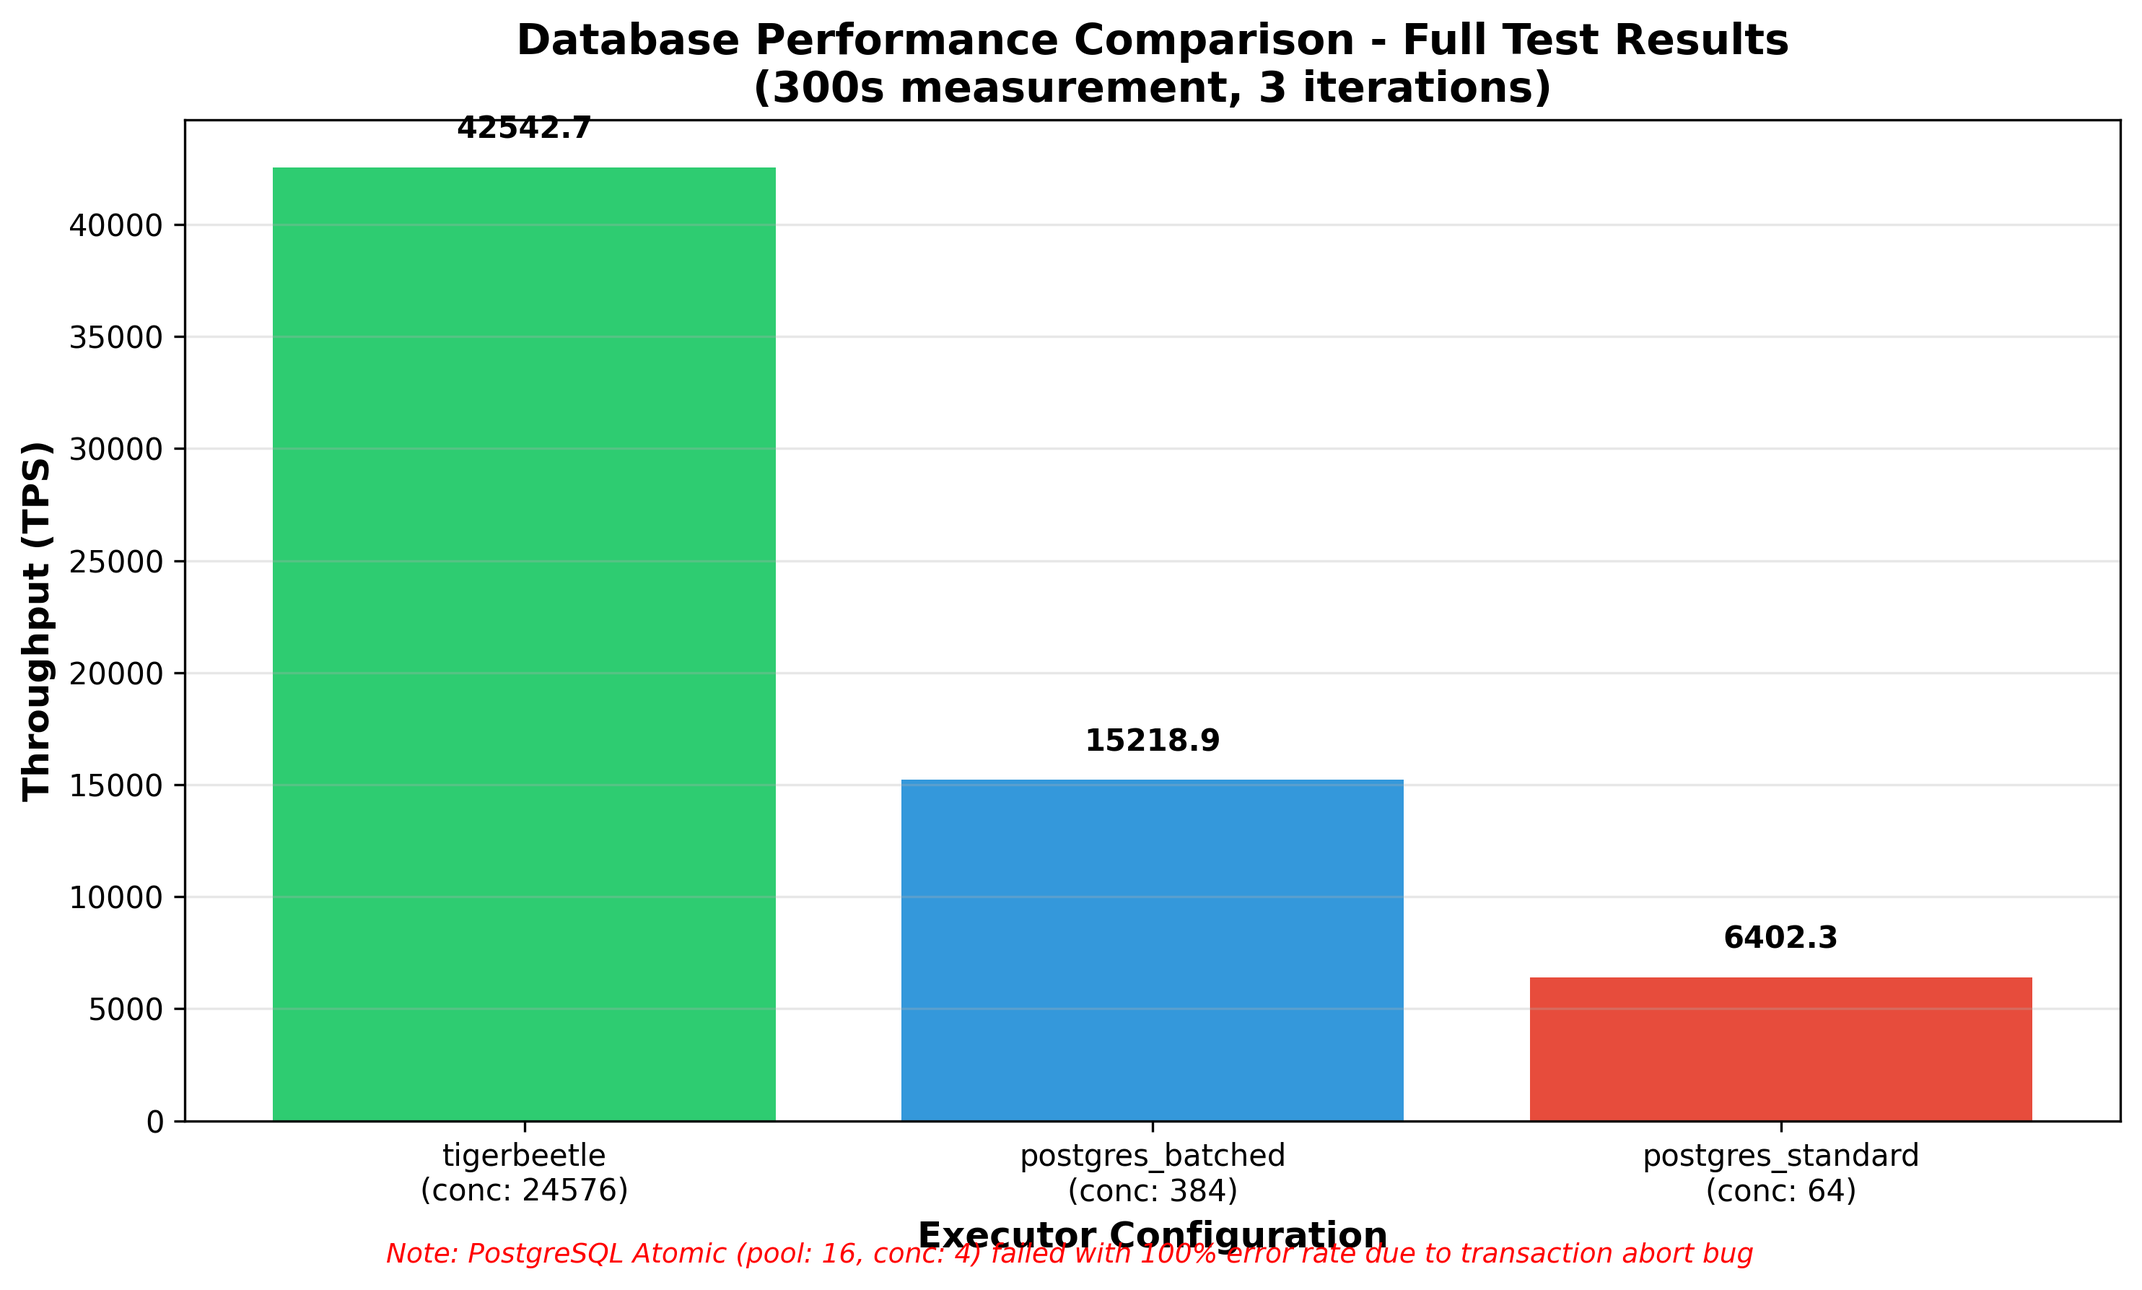
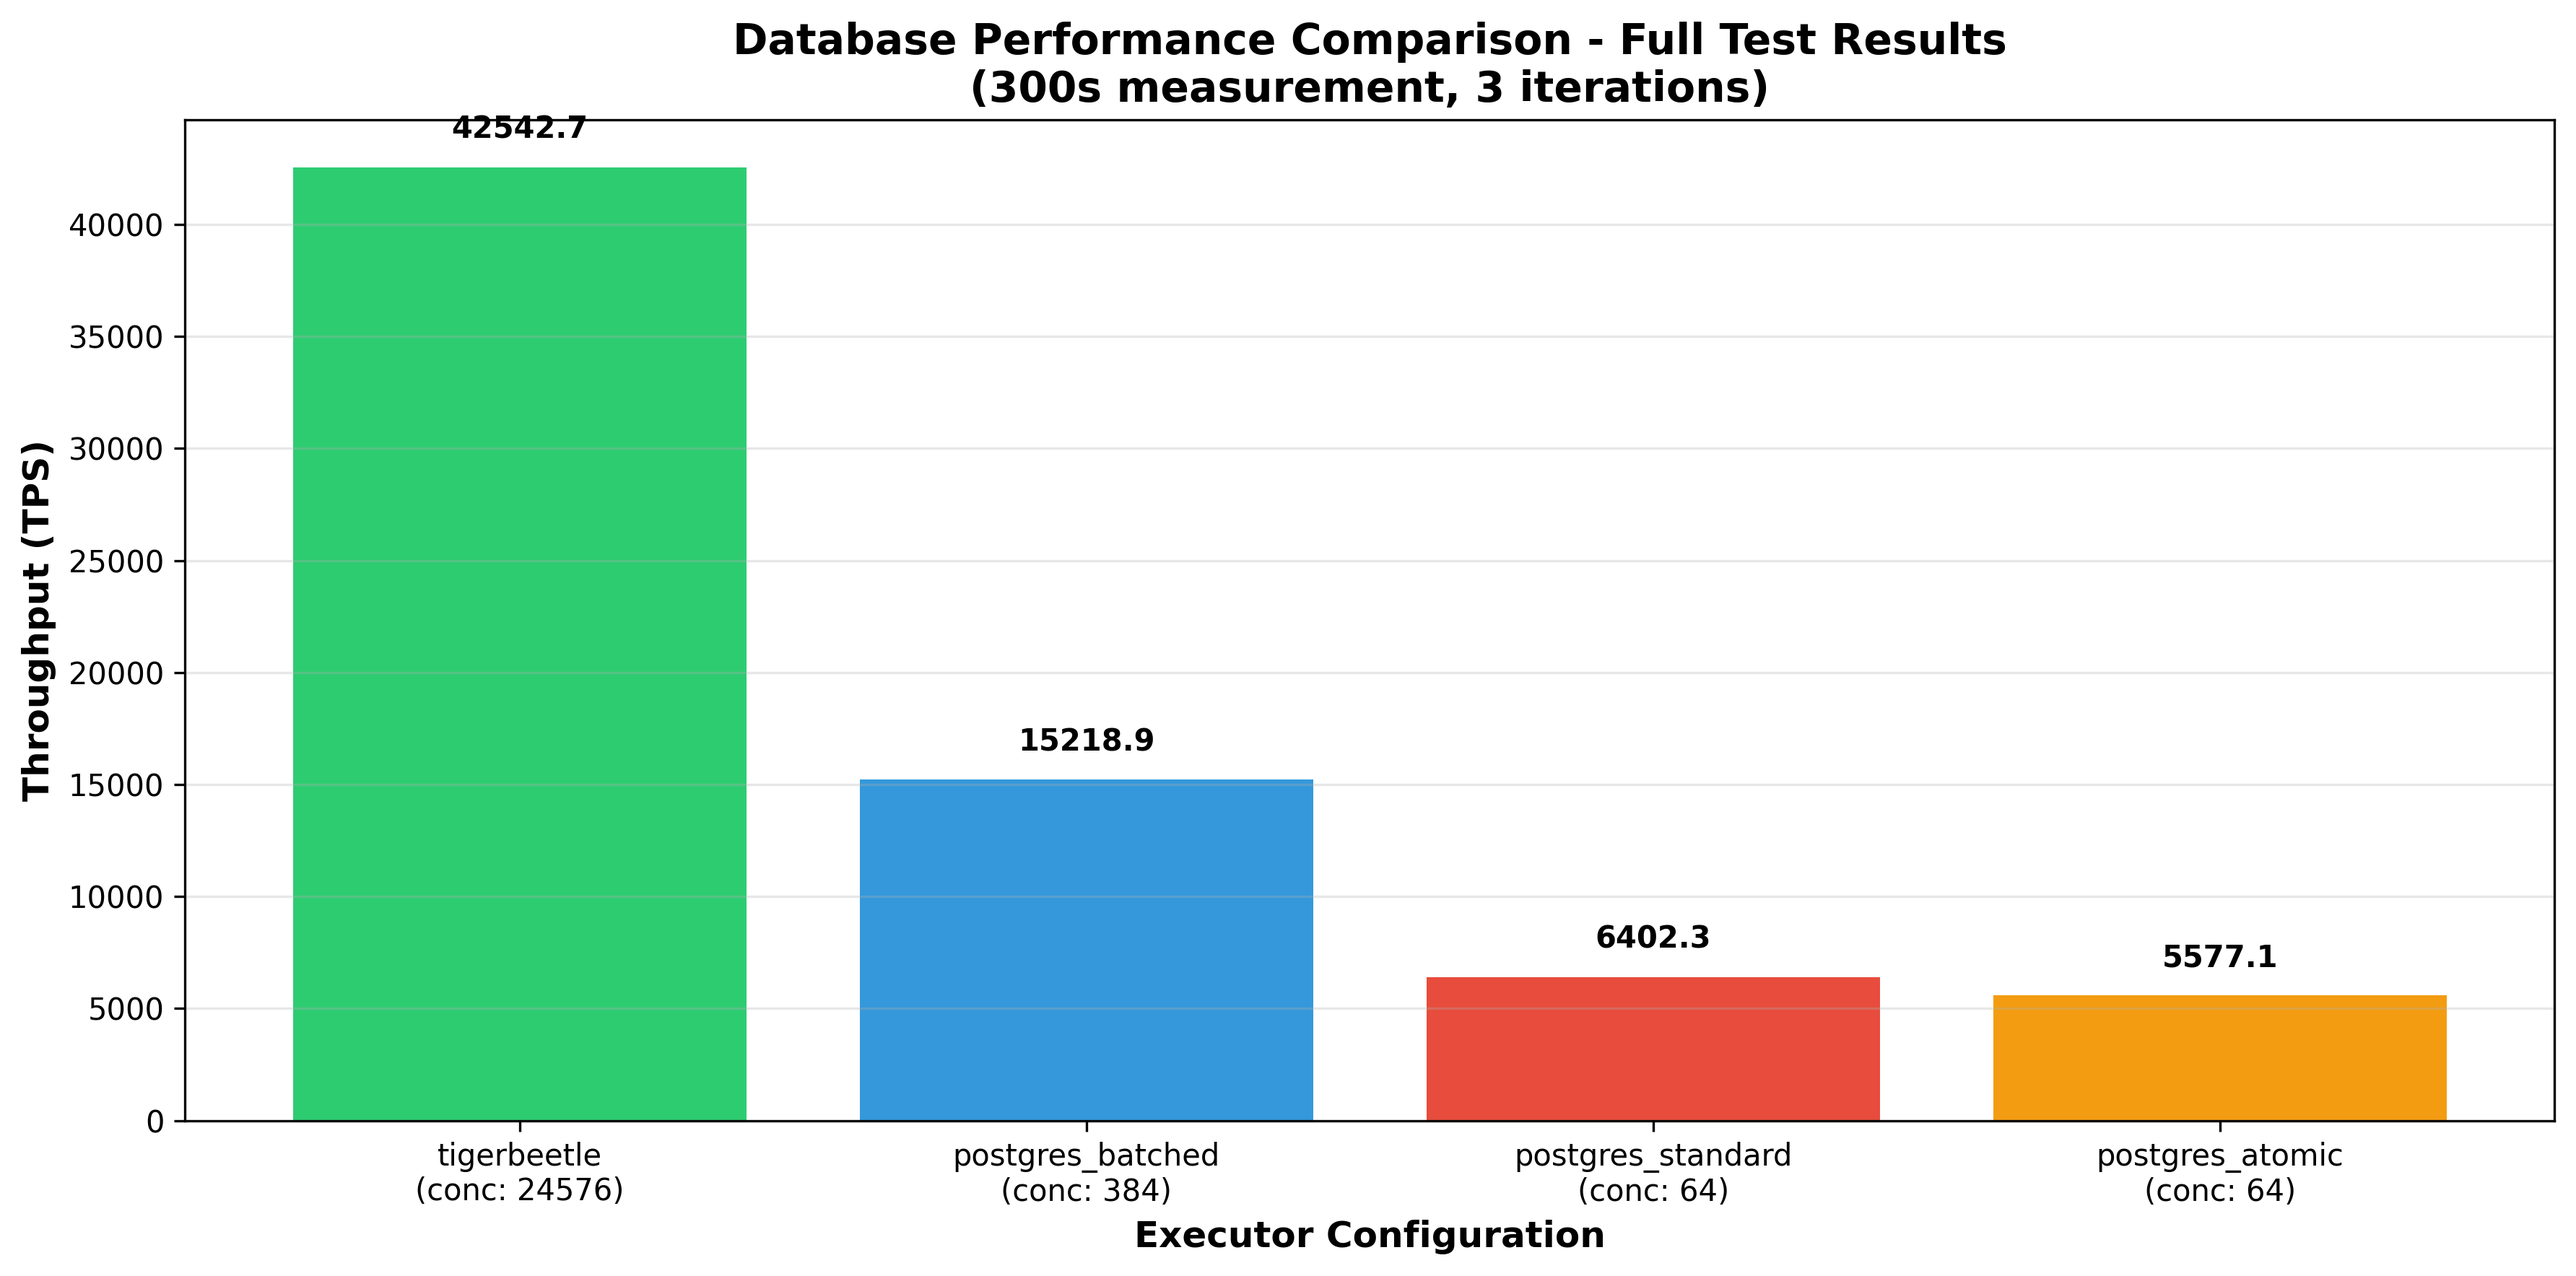
Fix atomic executor transaction abort bug and update benchmark results
Fixed connection pool corruption in postgres atomic executor by adding
explicit ROLLBACK after transfer_atomic() exceptions. Without this,
aborted transactions left connections in invalid state.

Re-ran parameter sweep and full benchmarks with fixed executor:
- Optimal config: pool 16, concurrency 64 (was 4)
- Normal test: 5,577 TPS (was 0 TPS due to bug)
- Quick test: 6,617 TPS best case

Final normal test rankings:
1. TigerBeetle: 42,543 TPS
2. PostgreSQL Batched: 15,219 TPS
3. PostgreSQL Standard: 6,402 TPS
4. PostgreSQL Atomic: 5,577 TPS

diff --git a/local-results/plot_postgres_atomic_quick_fixed.py b/local-results/plot_postgres_atomic_quick_fixed.py
@@ -1,0 +1,84 @@
+#!/usr/bin/env python3
+"""
+Plot PostgreSQL Atomic quick test results (after bug fix)
+"""
+
+import pandas as pd
+import matplotlib.pyplot as plt
+import numpy as np
+
+# Read the data
+df = pd.read_csv('2026-01-19-postgres-atomic-quick-fixed.csv')
+
+# Find the best configuration
+best_idx = df['tps'].idxmax()
+best_row = df.loc[best_idx]
+
+print("=== PostgreSQL Atomic Quick Test Results (Bug Fixed) ===")
+print(f"\nBest configuration:")
+print(f"  Pool size: {best_row['pool_size']}")
+print(f"  Concurrency: {best_row['concurrency']}")
+print(f"  Throughput: {best_row['tps']:.1f} TPS")
+print(f"  Error rate: {best_row['error_rate']}%")
+
+# Top 5 configurations
+print(f"\nTop 5 configurations:")
+top5 = df.nlargest(5, 'tps')
+for idx, (_, row) in enumerate(top5.iterrows(), 1):
+    print(f"  {idx}. Pool {int(row['pool_size'])}, Conc {int(row['concurrency'])}: {row['tps']:.1f} TPS")
+
+# Create heatmap
+fig, ax = plt.subplots(figsize=(12, 8))
+
+# Pivot data for heatmap
+pivot = df.pivot(index='pool_size', columns='concurrency', values='tps')
+
+# Create heatmap
+im = ax.imshow(pivot, cmap='YlOrRd', aspect='auto')
+
+# Set ticks and labels
+ax.set_xticks(np.arange(len(pivot.columns)))
+ax.set_yticks(np.arange(len(pivot.index)))
+ax.set_xticklabels(pivot.columns)
+ax.set_yticklabels(pivot.index)
+
+# Add colorbar
+cbar = plt.colorbar(im, ax=ax)
+cbar.set_label('Throughput (TPS)', rotation=270, labelpad=20, fontweight='bold')
+
+# Add text annotations
+for i in range(len(pivot.index)):
+    for j in range(len(pivot.columns)):
+        value = pivot.iloc[i, j]
+        if not np.isnan(value):
+            text = ax.text(j, i, f'{value:.0f}',
+                          ha="center", va="center", color="black", fontsize=9, fontweight='bold')
+
+ax.set_xlabel('Concurrency', fontsize=12, fontweight='bold')
+ax.set_ylabel('Connection Pool Size', fontsize=12, fontweight='bold')
+ax.set_title('PostgreSQL Atomic Executor Performance Heatmap (Bug Fixed)\nQuick Test Results',
+             fontsize=14, fontweight='bold')
+
+plt.tight_layout()
+plt.savefig('2026-01-19-postgres-atomic-quick-fixed.png', dpi=300, bbox_inches='tight')
+print(f"\nHeatmap saved to 2026-01-19-postgres-atomic-quick-fixed.png")
+
+# Create line plot by pool size
+fig, ax = plt.subplots(figsize=(10, 6))
+
+for pool_size in sorted(df['pool_size'].unique()):
+    pool_data = df[df['pool_size'] == pool_size].sort_values('concurrency')
+    ax.plot(pool_data['concurrency'], pool_data['tps'],
+            marker='o', label=f'Pool {int(pool_size)}', linewidth=2)
+
+ax.set_xlabel('Concurrency', fontsize=12, fontweight='bold')
+ax.set_ylabel('Throughput (TPS)', fontsize=12, fontweight='bold')
+ax.set_title('PostgreSQL Atomic: Throughput vs Concurrency (Bug Fixed)',
+             fontsize=14, fontweight='bold')
+ax.set_xscale('log', base=2)
+ax.grid(True, alpha=0.3)
+ax.legend(fontsize=10)
+
+plt.tight_layout()
+plt.savefig('2026-01-19-postgres-atomic-concurrency-lines.png', dpi=300, bbox_inches='tight')
+print(f"Line chart saved to 2026-01-19-postgres-atomic-concurrency-lines.png")

diff --git a/local-results/plot_normal_comparison.py b/local-results/plot_normal_comparison.py
@@ -20,10 +20,10 @@ df_success['label'] = df_success.apply(
 )
 
 # Create the bar chart
-fig, ax = plt.subplots(figsize=(10, 6))
+fig, ax = plt.subplots(figsize=(12, 6))
 
 x = np.arange(len(df_success))
-bars = ax.bar(x, df_success['tps'], color=['#2ecc71', '#3498db', '#e74c3c'])
+bars = ax.bar(x, df_success['tps'], color=['#2ecc71', '#3498db', '#e74c3c', '#f39c12'])
 
 # Add value labels on top of bars
 for i, (idx, row) in enumerate(df_success.iterrows()):
@@ -39,12 +39,6 @@ ax.set_xticks(x)
 ax.set_xticklabels(df_success['label'])
 ax.grid(axis='y', alpha=0.3)
 
-# Add a note about the failed test
-if len(df[df['error_rate'] > 0]) > 0:
-    fig.text(0.5, 0.02,
-             'Note: PostgreSQL Atomic (pool: 16, conc: 4) failed with 100% error rate due to transaction abort bug',
-             ha='center', fontsize=9, style='italic', color='red')
-
 plt.tight_layout()
 plt.savefig('2026-01-19-normal-comparison.png', dpi=300, bbox_inches='tight')
 print(f"Chart saved to 2026-01-19-normal-comparison.png")
@@ -52,6 +46,14 @@ print(f"Chart saved to 2026-01-19-normal-comparison.png")
 # Print summary statistics
 print("\n=== Summary Statistics ===")
 print(f"Winner: {df_success.iloc[0]['executor']} with {df_success.iloc[0]['tps']:.1f} TPS")
-print(f"TigerBeetle is {df_success.iloc[0]['tps'] / df_success.iloc[1]['tps']:.2f}x faster than PostgreSQL Batched")
-print(f"TigerBeetle is {df_success.iloc[0]['tps'] / df_success.iloc[2]['tps']:.2f}x faster than PostgreSQL Standard")
-print(f"PostgreSQL Batched is {df_success.iloc[1]['tps'] / df_success.iloc[2]['tps']:.2f}x faster than PostgreSQL Standard")
+print(f"\nPerformance comparison:")
+print(f"  TigerBeetle is {df_success.iloc[0]['tps'] / df_success.iloc[1]['tps']:.2f}x faster than PostgreSQL Batched")
+print(f"  TigerBeetle is {df_success.iloc[0]['tps'] / df_success.iloc[2]['tps']:.2f}x faster than PostgreSQL Standard")
+print(f"  TigerBeetle is {df_success.iloc[0]['tps'] / df_success.iloc[3]['tps']:.2f}x faster than PostgreSQL Atomic")
+print(f"\nPostgreSQL executor rankings:")
+print(f"  1. Batched: {df_success.iloc[1]['tps']:.1f} TPS (conc: {df_success.iloc[1]['concurrency']})")
+print(f"  2. Standard: {df_success.iloc[2]['tps']:.1f} TPS (conc: {df_success.iloc[2]['concurrency']})")
+print(f"  3. Atomic: {df_success.iloc[3]['tps']:.1f} TPS (conc: {df_success.iloc[3]['concurrency']})")
+print(f"\n  Batched is {df_success.iloc[1]['tps'] / df_success.iloc[2]['tps']:.2f}x faster than Standard")
+print(f"  Batched is {df_success.iloc[1]['tps'] / df_success.iloc[3]['tps']:.2f}x faster than Atomic")
+print(f"  Standard is {df_success.iloc[2]['tps'] / df_success.iloc[3]['tps']:.2f}x faster than Atomic")

diff --git a/client/src/postgres.rs b/client/src/postgres.rs
@@ -248,6 +248,11 @@ async fn execute_atomic_transfer(
             anyhow::bail!("No result from transfer_atomic function")
         }
         Err(e) => {
+            // When transfer_atomic raises an exception, the transaction is aborted
+            // but not rolled back. We must explicitly ROLLBACK to clean up the
+            // connection state before returning it to the pool.
+            let _ = client.simple_query("ROLLBACK").await;
+
             // Check for custom SQLSTATE codes from transfer_atomic exceptions
             if let Some(db_err) = e.as_db_error() {
                 let code = db_err.code().code();
